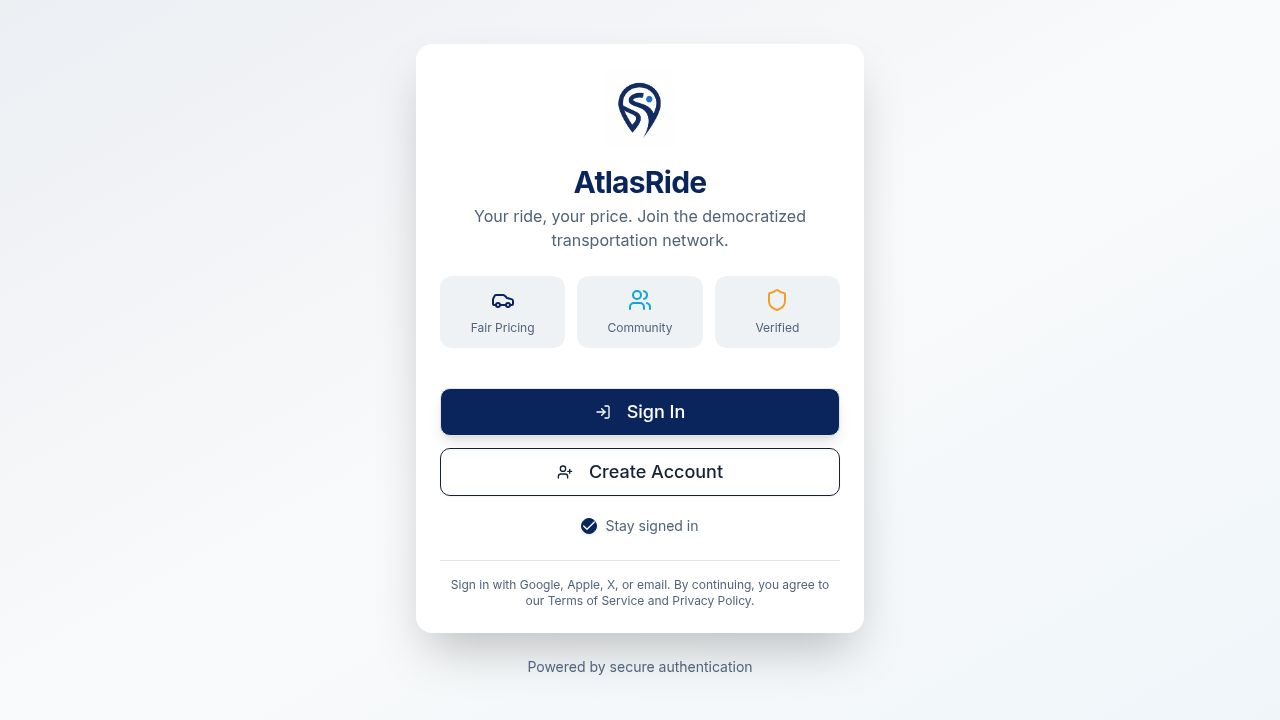
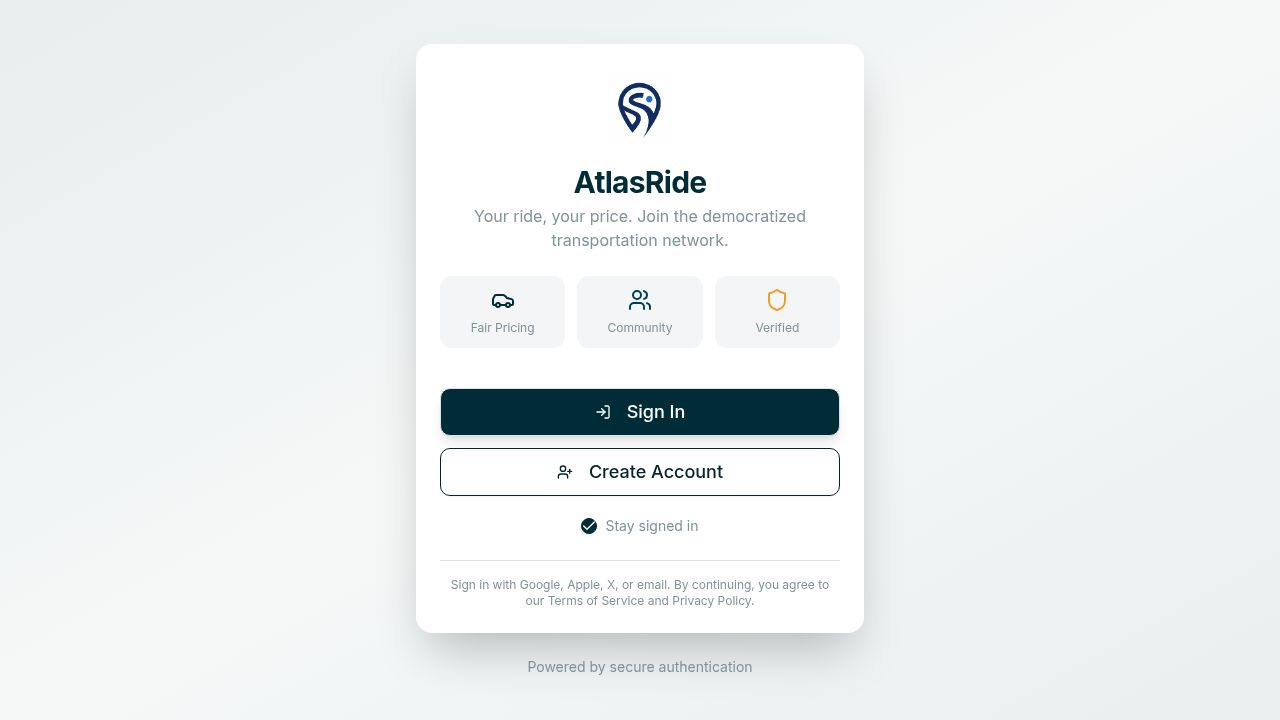
Update application theme and input placeholder colors
Adjusted CSS variables in `index.css` to implement a peacock blue theme and lighter placeholder text for improved form readability.

Replit-Commit-Author: Agent
Replit-Commit-Session-Id: 01020bec-6dc9-4751-9968-369558b8d503
Replit-Commit-Checkpoint-Type: full_checkpoint
Replit-Commit-Event-Id: 2b2b74fa-aa0d-4502-a716-ceea13ef36ea
Replit-Commit-Screenshot-Url: https://storage.googleapis.com/screenshot-production-us-central1/d7a3a45f-d67a-415c-9350-f3c24516e109/01020bec-6dc9-4751-9968-369558b8d503/RKYB2nO
Replit-Helium-Checkpoint-Created: true

diff --git a/client/src/index.css b/client/src/index.css
@@ -61,12 +61,12 @@
 
 /* LIGHT MODE - Clean, Professional, Trustworthy */
 :root {
-  /* Navy Blue Core */
-  --primary: 220 80% 20%; /* Deep Navy */
+  /* Peacock Blue Core */
+  --primary: 193 100% 11%; /* Peacock Blue #002d3a */
   --primary-foreground: 0 0% 100%;
 
-  /* Vibrant Blue/Teal Accent */
-  --secondary: 195 85% 45%; /* Bright Ocean Blue */
+  /* Vibrant Teal Accent */
+  --secondary: 193 100% 16%; /* Lighter Peacock #003f52 */
   --secondary-foreground: 0 0% 100%;
 
   /* Warm Accent for Actions/Price */
@@ -74,27 +74,27 @@
   --accent-foreground: 0 0% 100%;
 
   /* Neutrals */
-  --background: 210 20% 98%; /* Very light blue-grey tint */
-  --foreground: 220 40% 15%; /* Dark Navy Grey text */
+  --background: 195 15% 97%; /* Very light teal-grey tint */
+  --foreground: 193 80% 10%; /* Dark Peacock text */
 
   --card: 0 0% 100%;
-  --card-foreground: 220 40% 15%;
+  --card-foreground: 193 80% 10%;
 
   --popover: 0 0% 100%;
-  --popover-foreground: 220 40% 15%;
+  --popover-foreground: 193 80% 10%;
 
-  --muted: 210 20% 90%;
-  --muted-foreground: 215 20% 40%;
+  --muted: 195 15% 92%;
+  --muted-foreground: 195 10% 55%; /* Lighter placeholder text */
 
   --destructive: 0 84% 60%;
   --destructive-foreground: 0 0% 98%;
 
-  --border: 215 20% 90%;
-  --input: 215 20% 90%;
-  --ring: 220 80% 20%;
+  --border: 195 15% 88%;
+  --input: 195 15% 88%;
+  --ring: 193 100% 11%;
 
-  --chart-1: 220 80% 20%;
-  --chart-2: 195 85% 45%;
+  --chart-1: 193 100% 11%;
+  --chart-2: 193 100% 16%;
   --chart-3: 35 90% 55%;
   --chart-4: 43 74% 66%;
   --chart-5: 27 87% 67%;
@@ -110,36 +110,36 @@
 }
 
 .dark {
-  /* Dark Mode - Tech/Night Drive Feel */
-  --background: 222 47% 11%;
-  --foreground: 210 40% 98%;
+  /* Dark Mode - Peacock Blue Theme */
+  --background: 193 100% 8%; /* Darkest peacock #001f28 */
+  --foreground: 195 20% 95%;
 
-  --card: 222 47% 13%;
-  --card-foreground: 210 40% 98%;
+  --card: 193 100% 10%;
+  --card-foreground: 195 20% 95%;
 
-  --popover: 222 47% 11%;
-  --popover-foreground: 210 40% 98%;
+  --popover: 193 100% 8%;
+  --popover-foreground: 195 20% 95%;
 
-  --primary: 217 91% 60%; /* Brighter Blue for dark mode */
-  --primary-foreground: 222 47% 11%;
+  --primary: 193 70% 45%; /* Brighter Peacock for dark mode */
+  --primary-foreground: 193 100% 8%;
 
-  --secondary: 195 85% 55%;
+  --secondary: 193 60% 55%;
   --secondary-foreground: 0 0% 100%;
 
   --accent: 35 90% 55%;
-  --accent-foreground: 222 47% 11%;
+  --accent-foreground: 193 100% 8%;
 
-  --muted: 217 32% 17%;
-  --muted-foreground: 215 20% 65%;
+  --muted: 193 50% 15%;
+  --muted-foreground: 195 15% 60%; /* Lighter placeholder text for dark mode */
 
   --destructive: 0 62% 30%;
-  --destructive-foreground: 210 40% 98%;
+  --destructive-foreground: 195 20% 95%;
 
-  --border: 217 32% 20%;
-  --input: 217 32% 20%;
-  --ring: 212.7 26.8% 83.9%;
+  --border: 193 40% 18%;
+  --input: 193 40% 18%;
+  --ring: 193 60% 50%;
   
-  --chart-1: 220 70% 50%;
+  --chart-1: 193 70% 45%;
   --chart-2: 160 60% 45%;
   --chart-3: 30 80% 55%;
   --chart-4: 280 65% 60%;
